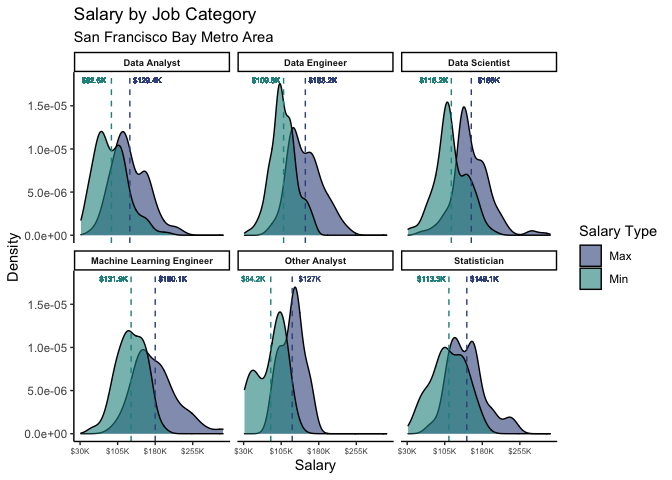
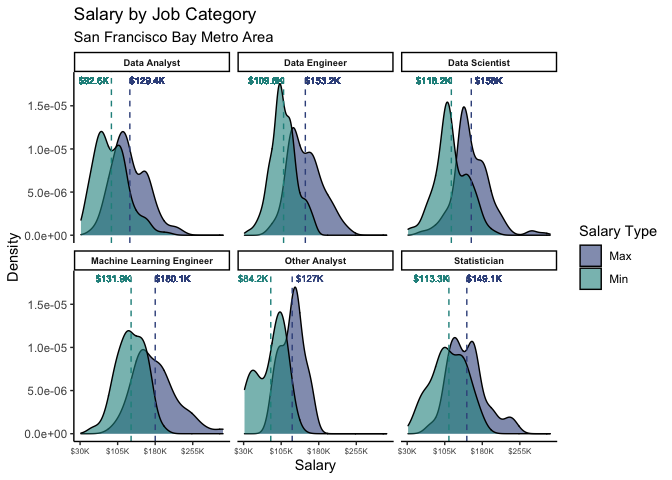
Updated graph titles and labels

diff --git a/EDA/salary_job_category_industry.md b/EDA/salary_job_category_industry.md
@@ -217,7 +217,7 @@ scaled_salary_data_jc_related %>% ggplot(aes(x = salary, fill = type)) +
 scale_fill_viridis(discrete = TRUE, begin = 0.25, end = 0.5, name = "Salary Type",
                      labels = c("Max", "Min")) + 
 scale_color_viridis(discrete = TRUE, begin = 0.25, end = 0.5, guide = FALSE) +
-  geom_text(data = mean_salary_jc, aes(x = ifelse(type == "max", mean_rate+25000, mean_rate-25000), y = 2.4e-05, label = paste0('$', round(mean_rate/1000,1), 'K'), group = job_category, col = type), size = 2) +
+  geom_text(data = mean_salary_jc, aes(x = ifelse(type == "max", mean_rate+30000, mean_rate-28000), y = 2.4e-05, label = paste0('$', round(mean_rate/1000,1), 'K'), group = job_category, col = type), size = 2.5) +
   facet_wrap(~job_category) + 
   theme_classic() +
   theme(strip.text = element_text(face = "bold", size = 7),
@@ -318,7 +318,8 @@ scaled_salary_data_ji %>% ggplot(aes(x = salary, fill = type)) +
 scale_fill_viridis(discrete = TRUE, begin = 0.25, end = 0.5, name = "Salary Type",
                      labels = c("Max", "Min")) + 
   scale_color_viridis(discrete = TRUE, begin = 0.25, end = 0.5, guide = FALSE) +
-  geom_text(data = mean_salary_ji, aes(x = ifelse(type == "max", mean_rate+35000, mean_rate-35000), y = 2.5e-05, label = paste0('$', round(mean_rate/1000,1), 'K'), group = industry, col = type), size = 2) +
+  geom_text(data = mean_salary_ji, aes(x = ifelse(type == "max", mean_rate+35000, mean_rate-35000), y = 2.5e-05, label = paste0('$', round(mean_rate/1000,1), 'K'), group = industry, col = type), size = 2.5,
+            family = "sans") +
   facet_wrap(~industry) + 
   theme_classic() +
   theme(strip.text = element_text(face = "bold", size = 7),
@@ -453,7 +454,7 @@ salary_data_sf %>% ggplot(aes(x = salary, fill = type)) +
 scale_fill_viridis(discrete = TRUE, begin = 0.25, end = 0.5, name = "Salary Type",
                      labels = c("Max", "Min")) + 
 scale_color_viridis(discrete = TRUE, begin = 0.25, end = 0.5, guide = FALSE) +
-  geom_text(data = mean_salary_sf, aes(x = ifelse(type == "max_salary", mean_rate+35000, mean_rate-35000), y = 1.8e-05, label = paste0('$', round(mean_rate/1000,1), 'K'), group = job_category, col = type), size = 2) +
+  geom_text(data = mean_salary_sf, aes(x = ifelse(type == "max_salary", mean_rate+35000, mean_rate-35000), y = 1.8e-05, label = paste0('$', round(mean_rate/1000,1), 'K'), group = job_category, col = type), size = 2.5) +
   facet_wrap(~job_category) + 
   theme_classic() +
   theme(strip.text = element_text(face = "bold", size = 7),
